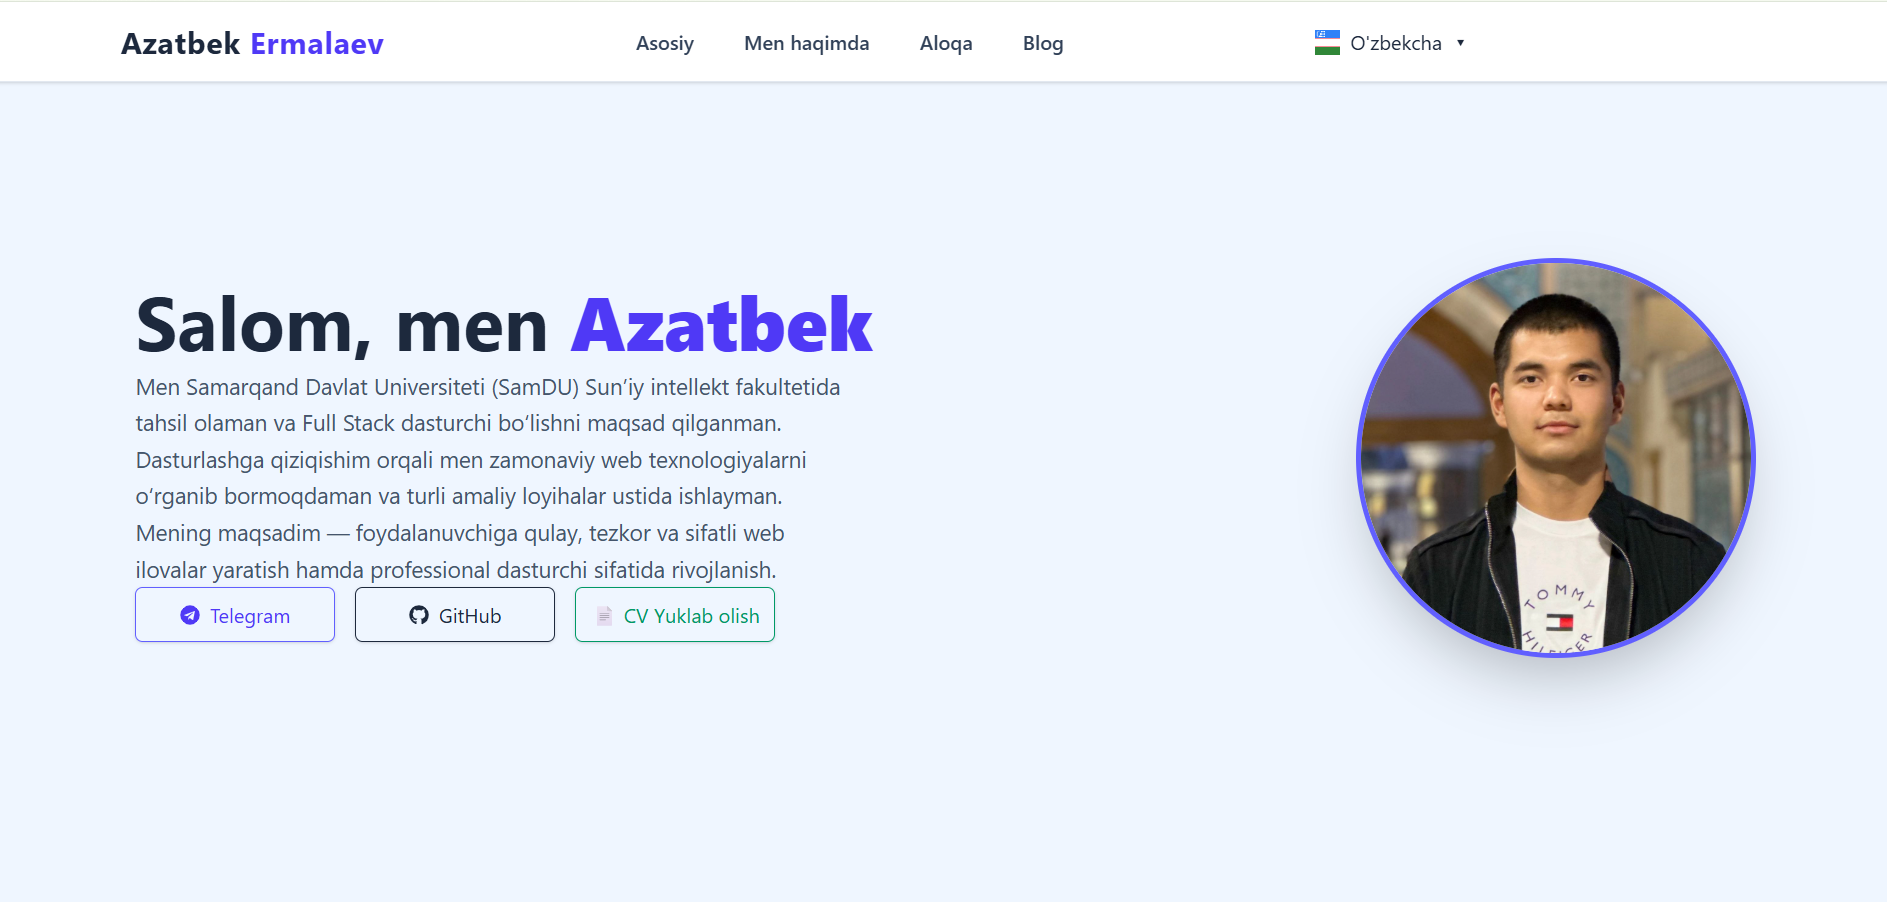
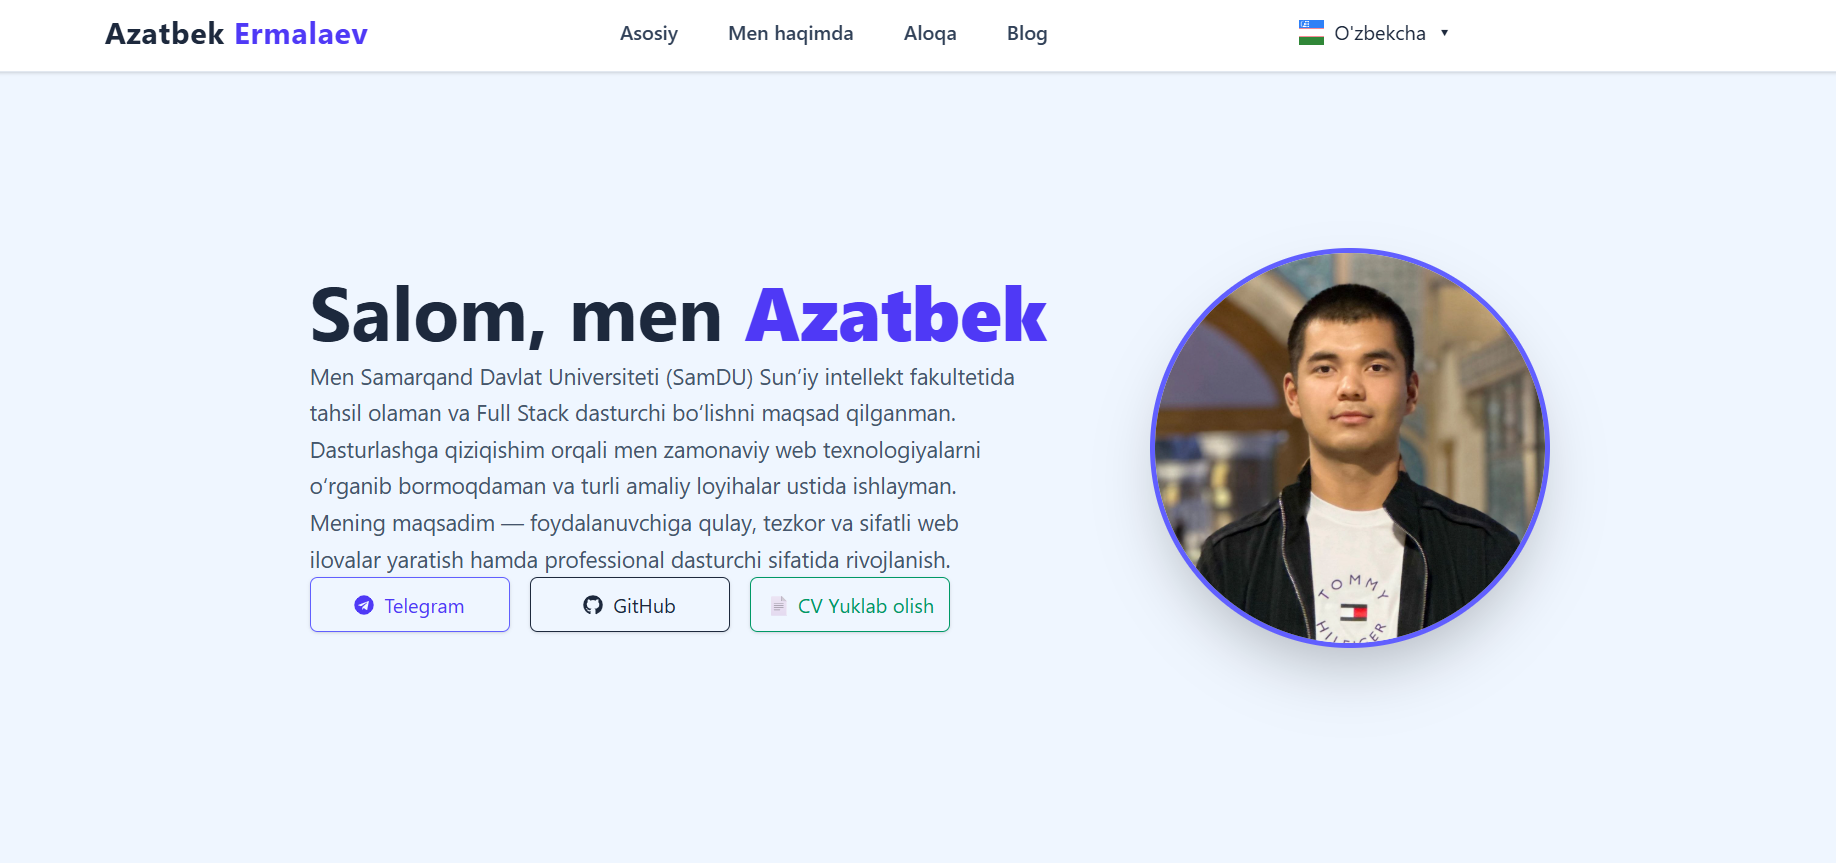
portfel sahifa qoshildi

diff --git a/src/pages/Portfel.jsx b/src/pages/Portfel.jsx
@@ -1,0 +1,142 @@
+import { motion } from "framer-motion";
+
+export function Portfel() {
+    return (
+        <>
+            <motion.div
+                initial={{ opacity: 0, scale: 0.8 }}
+                animate={{ opacity: 1, scale: 1 }}
+                transition={{ duration: 1, delay: 0.2 }}
+                className="flex justify-center items-center z-0 lg:order-last"
+            >
+                <section className="flex flex-col md:flex-row justify-center items-center min-h-80 gap-10 md:gap-20 px-4 sm:px-6 py-10">
+                    <div className="w-full md:w-180 text-center px-4">
+                        <h1 className="font-bold text-3xl sm:text-5xl md:text-6xl leading-tight">Loyihalar galereyasi</h1>
+                        <p className="text-base sm:text-lg md:text-2xl text-gray-600 leading-relaxed px-2"> Mening tajribam va qilgan ishlarim. Barcha loyihalar responsive, zamonaviy va foydalanuvchilarga qulay tarzda yaratilgan.</p>
+                    </div>
+                </section></motion.div>
+            <motion.div
+                initial={{ opacity: 0, scale: 0.8 }}
+                animate={{ opacity: 1, scale: 1 }}
+                transition={{ duration: 1, delay: 0.2 }}
+                className="flex justify-center items-center z-0 lg:order-last"
+            >
+
+                <section className="px-4 sm:px-6 md:px-8">
+                    <div className="flex flex-col lg:flex-row justify-center items-center lg:justify-around gap-6 md:gap-8">
+                        <div className="w-full sm:w-96 md:w-100 lg:w-110 rounded-2xl bg-white hover:bg-gray-50 hover:shadow-2xl transition-all duration-300 border border-gray-200">
+                            <div>
+                                <img src="/images/rasm2.png" alt="" className="w-full object-cover rounded-t-2xl h-48 sm:h-52 md:h-56" />
+                            </div>
+                            <div className="flex justify-center p-4 sm:p-5">
+                                <div className="w-100 space-y-2">
+                                    <h1 className="text-xl sm:text-2xl font-bold text-gray-900">Portfelim azatbek.uz</h1><br />
+                                    <p className="text-gray-600 text-sm sm:text-base">Shaxsiy portfolio saytim. Loyihalarim, tajribam va kontakt ma'lumotlarim joylashgan.</p><br />
+
+                                    <div className="flex flex-wrap gap-2 my-4">
+                                        <span className="inline-flex items-center px-2 sm:px-3 py-1 bg-indigo-100 text-gray-700 text-xs sm:text-sm rounded-full">
+                                            🏷 Portfolio
+                                        </span>
+                                        <span className="inline-flex items-center px-2 sm:px-3 py-1 bg-indigo-100 text-gray-700 text-xs sm:text-sm rounded-full">
+                                            🎨 Design
+                                        </span>
+                                        <span className="inline-flex items-center px-2 sm:px-3 py-1 bg-indigo-100 text-gray-700 text-xs sm:text-sm rounded-full">
+                                            💻 React
+                                        </span>
+                                        <span className="inline-flex items-center px-2 sm:px-3 py-1 bg-indigo-100 text-gray-700 text-xs sm:text-sm rounded-full">
+                                            🎯 Tailwind CSS
+                                        </span>
+                                    </div><br />
+
+                                    <div className="flex justify-center w-full cursor-pointer border-indigo-600 hover:bg-indigo-500 border-2 rounded-2xl">
+                                        <a
+                                            href="https://github.com/azatbek-07/react-tailwindcss-portfolio"
+                                            target="_blank"
+                                            className="w-full text-center py-2 text-indigo-600 hover:text-white"
+                                        >
+                                            GitHub
+                                        </a>
+                                    </div><br />
+
+                                </div>
+                            </div>
+                        </div>
+
+
+                        <div className="w-full sm:w-96 md:w-100 lg:w-110 rounded-2xl bg-white hover:bg-gray-50 hover:shadow-2xl transition-all duration-300 border border-gray-200">
+                            <div>
+                                <img src="/images/rasm5.png" alt="" className="w-full object-cover h-48 sm:h-52 md:h-56 rounded-t-2xl" />
+                            </div>
+                            <div className="flex justify-center p-4 sm:p-5">
+                                <div className="w-100 space-y-2">
+                                    <h1 className="text-xl sm:text-2xl font-bold text-gray-900">Login Register</h1><br />
+                                    <p className="text-gray-600 text-sm sm:text-base">React va Node.js dan foydalanib ishlangan. Foydalanuvchi ro'yxatdan o'tadi va tizimga kiradi.</p><br />
+
+                                    <div className="flex flex-wrap gap-2 my-4">
+                                        <span className="inline-flex items-center px-2 sm:px-3 py-1 bg-indigo-100 text-gray-700 text-xs sm:text-sm rounded-full">
+                                            🟢 Node.js
+                                        </span>
+                                        <span className="inline-flex items-center px-2 sm:px-3 py-1 bg-indigo-100 text-gray-700 text-xs sm:text-sm rounded-full">
+                                            🎨 Design
+                                        </span>
+                                        <span className="inline-flex items-center px-2 sm:px-3 py-1 bg-indigo-100 text-gray-700 text-xs sm:text-sm rounded-full">
+                                            💻 React
+                                        </span>
+                                        <span className="inline-flex items-center px-2 sm:px-3 py-1 bg-indigo-100 text-gray-700 text-xs sm:text-sm rounded-full">
+                                            🎯 Tailwind CSS
+                                        </span>
+                                    </div><br />
+
+                                    <div className="flex justify-center w-full cursor-pointer border-indigo-600 hover:bg-indigo-500 border-2 rounded-2xl">
+                                        <a
+                                            href="https://github.com/azatbek-07/react-tailwindcss-portfolio"
+                                            target="_blank"
+                                            className="w-full text-center py-2 text-indigo-600 hover:text-white"
+                                        >
+                                            GitHub
+                                        </a>
+                                    </div><br />
+                                </div>
+                            </div>
+                        </div>
+
+
+                        <div className="w-full sm:w-96 md:w-100 lg:w-110 rounded-2xl bg-white hover:bg-gray-50 hover:shadow-2xl transition-all duration-300 border border-gray-200">
+                            <div>
+                                <img src="/images/rasm4.png" alt="" className="w-full object-cover rounded-t-2xl h-48 sm:h-52 md:h-56" />
+                            </div>
+                            <div className="flex justify-center p-4 sm:p-5">
+                                <div className="w-100 space-y-2">
+                                    <h1 className="text-xl sm:text-2xl font-bold text-gray-900">SamDu oshxonasi</h1><br />
+                                    <p className="text-gray-600 text-sm sm:text-base">SamDU oshxonasi menyusi va buyurtmalarni boshqarish uchun web ilova.</p><br />
+
+                                    <div className="flex flex-wrap gap-2 my-4">
+                                        <span className="inline-flex items-center px-2 sm:px-3 py-1 bg-indigo-100 text-gray-700 text-xs sm:text-sm rounded-full">
+                                            🎨 Design
+                                        </span>
+                                        <span className="inline-flex items-center px-2 sm:px-3 py-1 bg-indigo-100 text-gray-700 text-xs sm:text-sm rounded-full">
+                                            💻 React
+                                        </span>
+                                        <span className="inline-flex items-center px-2 sm:px-3 py-1 bg-indigo-100 text-gray-700 text-xs sm:text-sm rounded-full">
+                                            🎯 Tailwind CSS
+                                        </span>
+                                    </div><br />
+
+                                    <div className="flex justify-center w-full cursor-pointer border-indigo-600 hover:bg-indigo-500 border-2 rounded-2xl">
+                                        <a
+                                            href="https://github.com/azatbek-07/react-tailwindcss-portfolio"
+                                            target="_blank"
+                                            className="w-full text-center py-2 text-indigo-600 hover:text-white"
+                                        >
+                                            GitHub
+                                        </a>
+                                    </div><br />
+                                </div>
+                            </div>
+                        </div>
+                    </div>
+                </section></motion.div>
+
+        </>
+    )
+}

diff --git a/src/pages/Home.jsx b/src/pages/Home.jsx
@@ -4,93 +4,82 @@ import { motion } from "framer-motion";
 import { useTranslation } from "react-i18next";
 import i18n from "i18next";
 import { FaTelegram, FaGithub, FaInstagram } from "react-icons/fa";
+import { Link } from "react-router-dom";
 
 export function Home() {
     const { t } = useTranslation();
     return (
-        <div className="bg-blue-50"> 
+        <div className="bg-blue-50">
             {/* Header va Footer chaqirilganini hisobga olib, section paddingini to'g'irlaymiz */}
-          <section className="flex flex-col lg:flex-row justify-around items-center min-h-screen px-4 sm:px-6 md:px-10 pt-32 pb-10 gap-10 lg:gap-20 overflow-hidden">
+            <section className="flex flex-col lg:flex-row justify-center items-center min-h-screen px-4 sm:px-6 md:px-10 pt-32 pb-10  overflow-hidden">
 
-    {/* IMAGE - Mobil qurilmalarda birinchi chiqadi, lg ekranda esa o'ngga o'tadi (order-last orqali) */}
-    <motion.div
-        initial={{ opacity: 0, scale: 0.8 }}
-        animate={{ opacity: 1, scale: 1 }}
-        transition={{ duration: 0.8, delay: 0.2 }}
-        className="flex justify-center items-center z-0 lg:order-last" 
-    >
-        <div className="relative">
-            <img
-                className="
-                w-52
-                h-52
-                sm:w-64
-                sm:h-64
-                md:w-80
-                md:h-80
-                rounded-full
-                object-cover
-                shadow-2xl
-                border-4
-                border-indigo-500
-                bg-white"
-                src="/images/rasmim1.jpg"
-                alt="profile"
-            />
-        </div>
-    </motion.div>
-
-    {/* TEXT - Mobil qurilmalarda rasmning tagida chiqadi */}
-    <motion.div
-        initial={{ opacity: 0, y: 50 }}
-        animate={{ opacity: 1, y: 0 }}
-        transition={{ duration: 0.8 }}
-        className="w-full max-w-2xl text-center lg:text-left"
-    >
-        <div className="space-y-6 text-center lg:text-left">
-            <h1 className="text-3xl sm:text-4xl md:text-5xl lg:text-6xl font-bold leading-tight text-slate-800">
-                {t("home.title")}{" "}
-                <b className="text-indigo-600">
-                    {t("home.name")}
-                </b>
-            </h1>
-
-            <p className="max-w-xl text-sm sm:text-base md:text-lg text-slate-600 leading-relaxed mx-auto lg:mx-0">
-                {t("home.description")}
-            </p>
-
-            {/* BUTTONS */}
-            <div className="flex flex-col sm:flex-row flex-wrap justify-center lg:justify-start gap-4 mt-6">
-                <a
-                    href="https://t.me/A_z_a_t_b_e_k"
-                    target="_blank"
-                    className="w-full sm:w-40 h-11 flex items-center justify-center gap-2 border border-indigo-500 text-indigo-600 rounded-md hover:bg-indigo-500 hover:text-white transition-all duration-300 shadow-sm"
+                {/* IMAGE - Mobil qurilmalarda birinchi chiqadi, lg ekranda esa o'ngga o'tadi (order-last orqali) */}
+                <motion.div
+                    initial={{ opacity: 0, scale: 0.8 }}
+                    animate={{ opacity: 1, scale: 1 }}
+                    transition={{ duration: 0.8, delay: 0.2 }}
+                    className="flex justify-center items-center z-0 lg:order-last"
                 >
-                    <FaTelegram />
-                    {t("a.telegram")}
-                </a>
+                    <div className="relative">
+                        <img
+                            className="w-52 h-52 sm:w-64 sm:h-64 md:w-80 md:h-80 rounded-full object-cover shadow-2xl border-4 border-indigo-500 bg-white"
+                            src="/images/rasmim1.jpg"
+                            alt="profile"
+                        />
+                    </div>
+                </motion.div>
 
-                <a
-                    href="https://github.com/azatbek-07"
-                    target="_blank"
-                    className="w-full sm:w-40 h-11 flex items-center justify-center gap-2 border border-slate-800 text-slate-800 rounded-md hover:bg-slate-800 hover:text-white transition-all duration-300 shadow-sm"
+                {/* TEXT - Mobil qurilmalarda rasmning tagida chiqadi */}
+                <motion.div
+                    initial={{ opacity: 0, y: 50 }}
+                    animate={{ opacity: 1, y: 0 }}
+                    transition={{ duration: 0.8 }}
+                    className="w-full max-w-2xl text-center lg:text-left"
                 >
-                    <FaGithub />
-                    {t("a.github")}
-                </a>
+                    <div className="space-y-6 text-center lg:text-left">
+                        <h1 className="text-3xl sm:text-4xl md:text-5xl lg:text-6xl font-bold leading-tight text-slate-800">
+                            {t("home.title")}{" "}
+                            <b className="text-indigo-600">
+                                {t("home.name")}
+                            </b>
+                        </h1>
 
-                <a
-                    href="/cv.pdf"
-                    download
-                    className="w-full sm:w-40 h-11 flex items-center justify-center gap-2 border border-emerald-600 text-emerald-600 rounded-md hover:bg-emerald-600 hover:text-white transition-all duration-300 shadow-sm"
-                >
-                    📄 {t("a.cv")}
-                </a>
-            </div>
-        </div>
-    </motion.div>
+                        <p className="max-w-xl text-sm sm:text-base md:text-lg text-slate-600 leading-relaxed mx-auto lg:mx-0">
+                            {t("home.description")}
+                        </p>
 
-</section>
+                        {/* BUTTONS */}
+                        <div className="flex flex-col sm:flex-row flex-wrap justify-center lg:justify-start gap-4 mt-6">
+                            <a
+                                href="https://t.me/A_z_a_t_b_e_k"
+                                target="_blank"
+                                className="w-full sm:w-40 h-11 flex items-center justify-center gap-2 border border-indigo-500 text-indigo-600 rounded-md hover:bg-indigo-500 hover:text-white transition-all duration-300 shadow-sm"
+                            >
+                                <FaTelegram />
+                                {t("a.telegram")}
+                            </a>
+
+                            <a
+                                href="https://github.com/azatbek-07"
+                                target="_blank"
+                                className="w-full sm:w-40 h-11 flex items-center justify-center gap-2 border border-slate-800 text-slate-800 rounded-md hover:bg-slate-800 hover:text-white transition-all duration-300 shadow-sm"
+                            >
+                                <FaGithub />
+                                {t("a.github")}
+                            </a>
+
+                            <a
+                                href="/cv.pdf"
+                                download
+                                className="w-full sm:w-40 h-11 flex items-center justify-center gap-2 border border-emerald-600 text-emerald-600 rounded-md hover:bg-emerald-600 hover:text-white transition-all duration-300 shadow-sm"
+                            >
+                                📄 {t("a.cv")}
+                            </a>
+                        </div>
+                    </div>
+                </motion.div>
+
+            </section>
         </div>
     );
 }

diff --git a/src/components/Header.jsx b/src/components/Header.jsx
@@ -26,7 +26,7 @@ export function Header() {
 
                 {/* DESKTOP NAVIGATSIYA */}
                 <div className="hidden md:flex gap-10 font-medium text-slate-700">
-                    {["home", "about", "contact", "blog"].map((item) => (
+                    {["home", "about", "portfel", "blog", "contact"].map((item) => (
                         <Link
                             key={item}
                             className="relative hover:text-indigo-600 after:content-[''] after:absolute after:left-0 after:-bottom-1 
@@ -44,11 +44,18 @@ export function Header() {
                     <LanguageDropdown />
 
                     <button
-                        className="md:hidden text-slate-800 focus:outline-none"
+                        className="md:hidden  text-slate-800 focus:outline-none"
                         onClick={() => setIsOpen(!isOpen)}
                     >
                         {isOpen ? <HiX size={28} /> : <HiMenuAlt3 size={28} />}
                     </button>
+
+                    <Link
+                        to="/portfel"
+                        className="flex items-center justify-center font-bold border w-20 h-10 rounded-xl cursor-pointer bg-indigo-700 text-white"
+                    >
+                        Portfel
+                    </Link>
                 </div>
             </nav>
 
@@ -57,9 +64,17 @@ export function Header() {
                 <div className="md:hidden absolute top-16 left-0 w-full bg-white border-b border-slate-200 py-6 flex flex-col items-center gap-6 shadow-xl animate-in slide-in-from-top duration-300">
                     <Link onClick={() => setIsOpen(false)} className="font-medium text-slate-700 hover:text-indigo-600" to="/">{t("header.home")}</Link>
                     <Link onClick={() => setIsOpen(false)} className="font-medium text-slate-700 hover:text-indigo-600" to="/about">{t("header.about")}</Link>
-                    <Link onClick={() => setIsOpen(false)} className="font-medium text-slate-700 hover:text-indigo-600" to="/contact">{t("header.contact")}</Link>
+                    <Link onClick={() => setIsOpen(false)} className="font-medium text-slate-700 hover:text-indigo-600" to="/portfel">Portfel</Link>
                     <Link onClick={() => setIsOpen(false)} className="font-medium text-slate-700 hover:text-indigo-600" to="/blog">{t("header.blog")}</Link>
+                    <Link onClick={() => setIsOpen(false)} className="font-medium text-slate-700 hover:text-indigo-600" to="/contact">{t("header.contact")}</Link>
+                    <Link
+                        to="/portfel"
+                        className="flex items-center justify-center font-bold border w-20 h-10 rounded-xl cursor-pointer bg-indigo-700 text-white"
+                    >
+                        Portfel
+                    </Link>
                 </div>
+                
             )}
         </header>
     );

diff --git a/src/App.jsx b/src/App.jsx
@@ -9,6 +9,7 @@ import { Blog } from './pages/Blog'
 import { Header } from './components/Header'
 import { Footer } from './components/Footer'
 import { NotFound } from './pages/NotFound'
+import { Portfel } from './pages/Portfel'
 
 
 function ScrollToTop() {
@@ -37,6 +38,7 @@ function App() {
           <Route path="/about" element={<About />} />
           <Route path="/contact" element={<Contact />} />
           <Route path='/blog' element={<Blog />} />
+          <Route path='/portfel' element={<Portfel />} />
           <Route path="*" element={<NotFound />} />
         </Routes>
 
